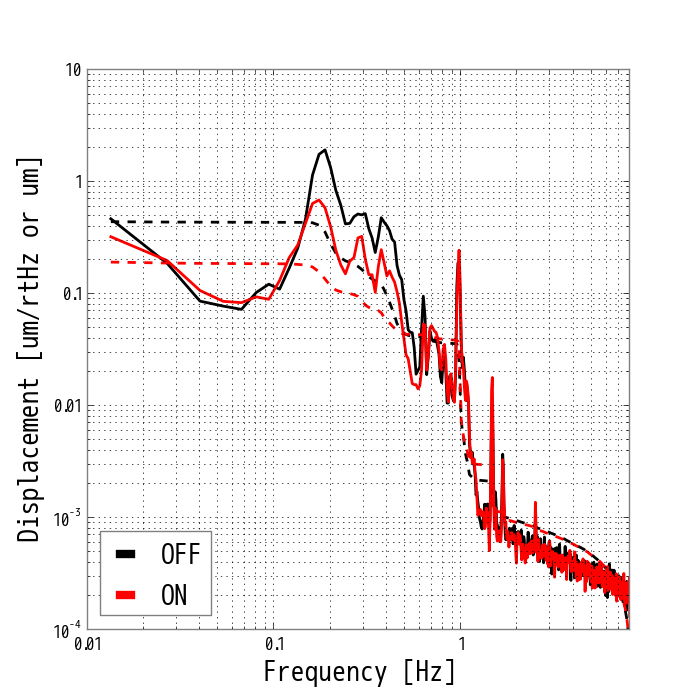
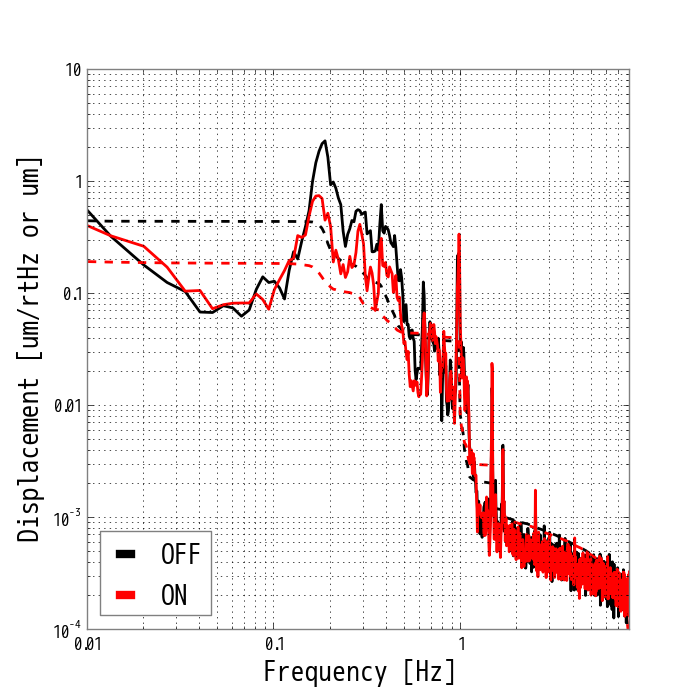
Update

Changed region(s): [[0.12, 0.18, 0.9, 0.9], [0.63, 0.33, 0.66, 0.36]]

diff --git a/alcs/sensor_correction_trial/main_sc2.py b/alcs/sensor_correction_trial/main_sc2.py
@@ -29,7 +29,7 @@ end1   = tconvert('Sep 17 2019 05:49:00 JST')
 
 # setting
 tlen = int(end1) - int(start1)
-ave = 8
+ave = 4
 fftlen = tlen/ave
 #fftlen = 2**6
 ovlp = fftlen/2.0
